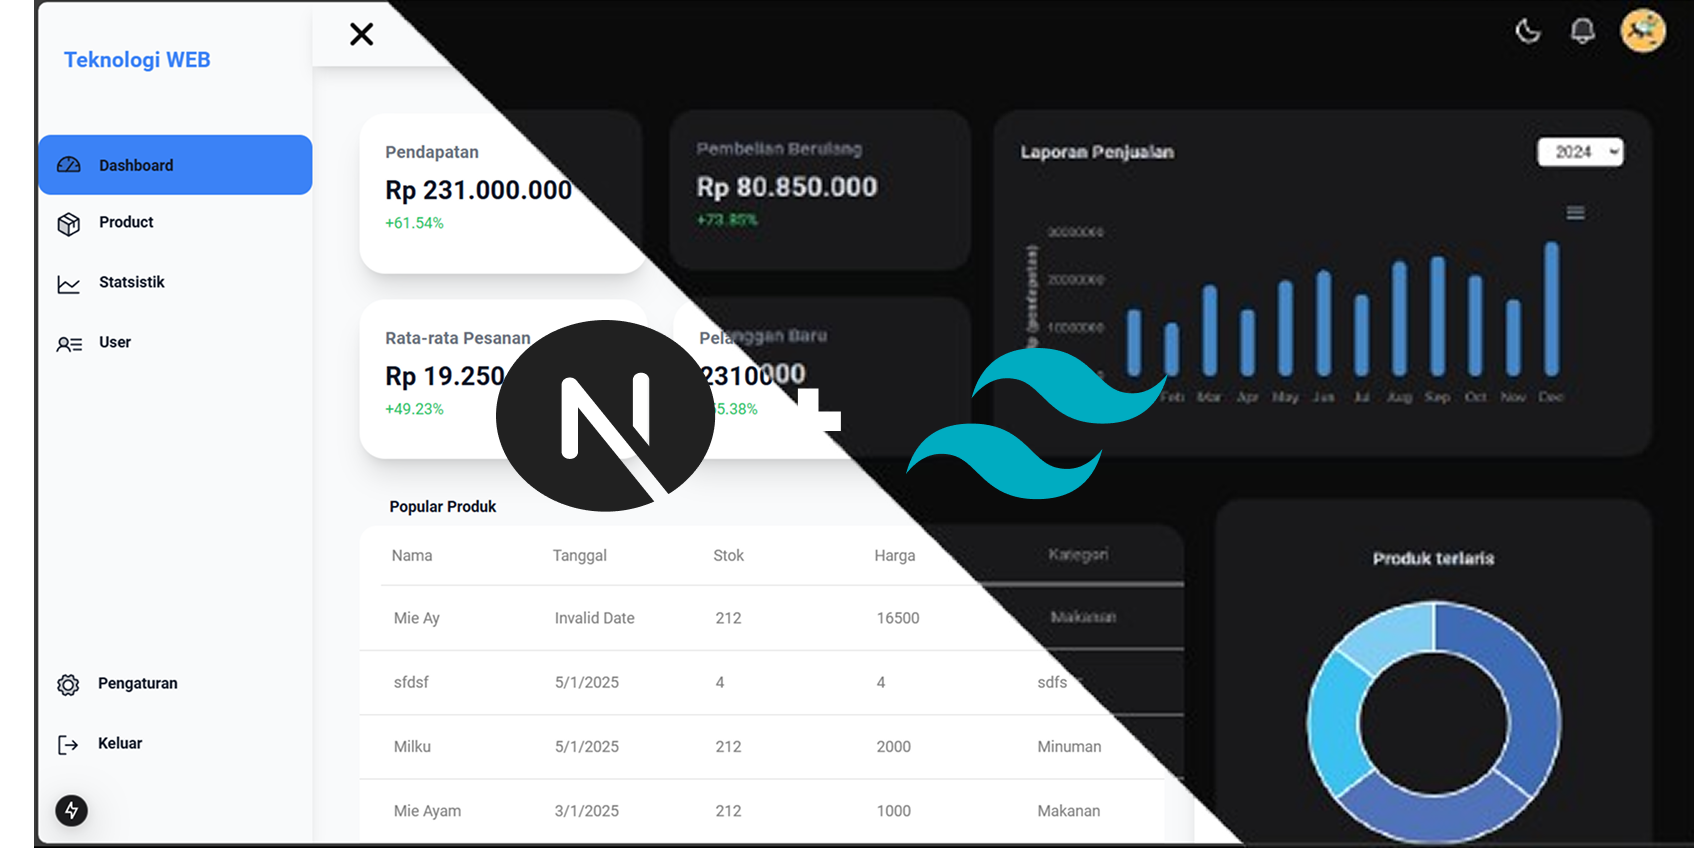
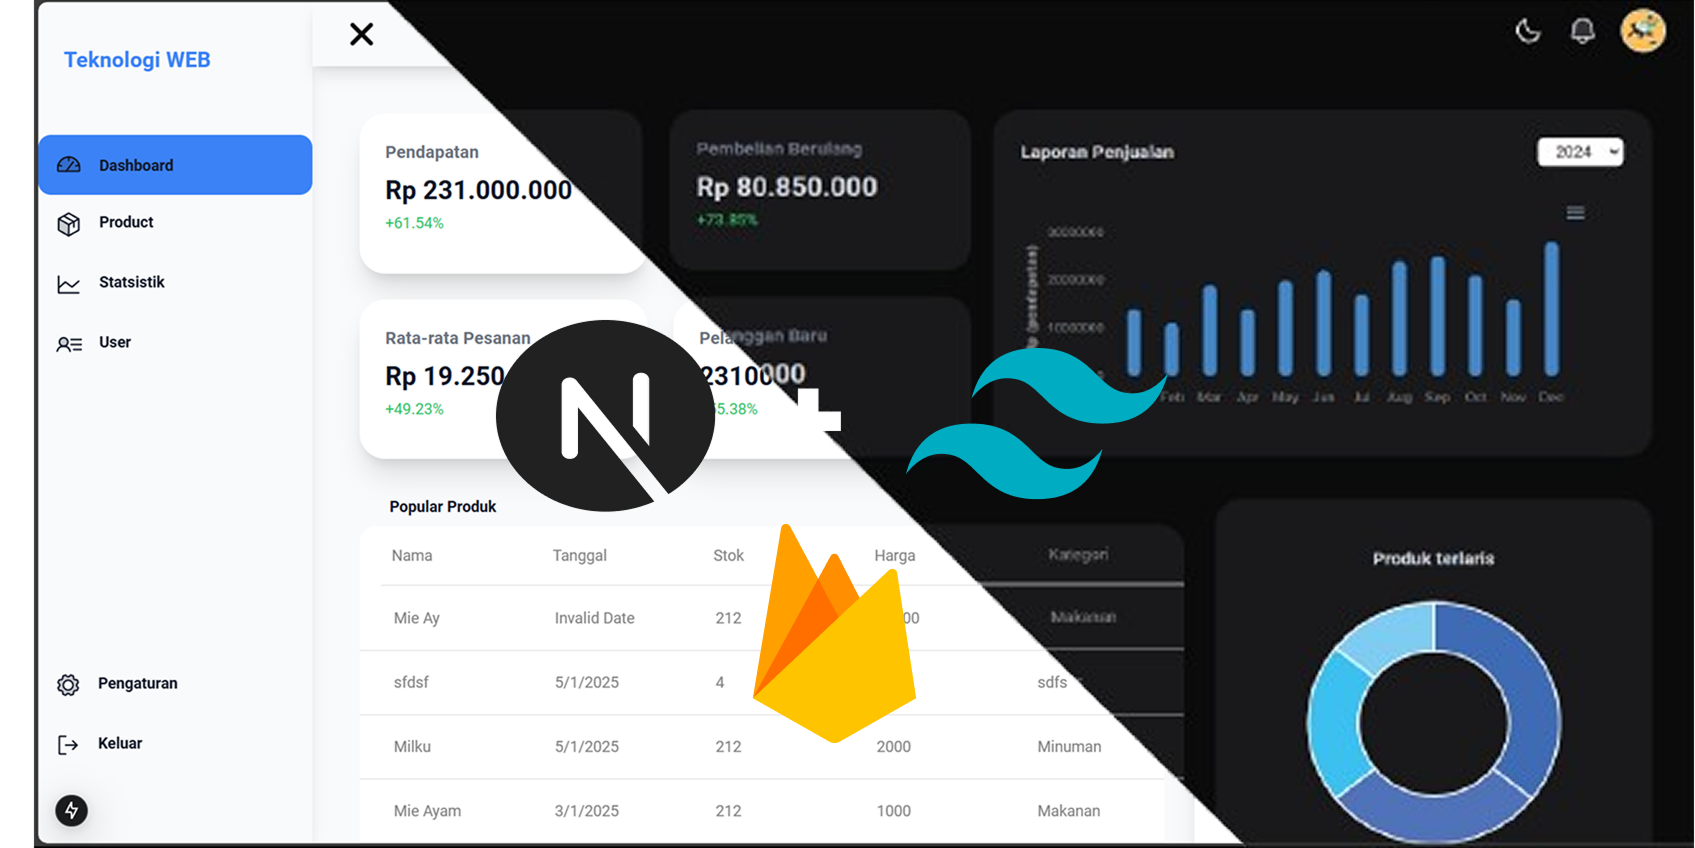
Disable Blogs

Changed region(s): [[0.4295, 0.6132, 0.5522, 0.8892]]

diff --git a/src/app/Home/page.jsx b/src/app/Home/page.jsx
@@ -245,10 +245,10 @@ export default function Home() {
             </div>
 
             {/* Blogs */}
-            <div className="h-full w-full bg-Bg1 flex flex-col justify-center items-center px-4 md:px-16 mb-16">
+            {/* <div className="h-full w-full bg-Bg1 flex flex-col justify-center items-center px-4 md:px-16 mb-16"> */}
                 {/* Header Section */}
-                <div className="flex flex-col gap-7 py-24">
-                    <div className="flex flex-col items-center justify-center gap-3  ">
+                {/* <div className="flex flex-col gap-7 py-24"> */}
+                    {/* <div className="flex flex-col items-center justify-center gap-3  ">
                         <img src="/asset/mouse.svg" alt="mouse" className="md:w-7 w-5" />
                         <img src="/asset/Line.svg" alt="line" className="md:w-3 w-2" />
                     </div>
@@ -258,22 +258,22 @@ export default function Home() {
                             <h1 className="text-Brand1 md:text-5xl text-3xl font-primary tracking-wider">Blogs</h1>
                         </div>
                         <h1 className="md:text-sm text-xs font-mono ">some of my activities are on the blog page</h1>
-                    </div>
-                </div>
+                    </div> */}
+                {/* </div> */}
 
 
                 {/* Blog Card Section */}
-                <div className="flex flex-col justify-center items-center px-4 md:px-16 -mt-4 md:-mt-10 gap-8">
-                    <div className="flex flex-col lg:flex-row w-full border-t-2 border-b-2 gap-8 md:gap-20 py-10 px-4 md:px-16 items-center justify-between">
+                {/* <div className="flex flex-col justify-center items-center px-4 md:px-16 -mt-4 md:-mt-10 gap-8"> */}
+                    {/* <div className="flex flex-col lg:flex-row w-full border-t-2 border-b-2 gap-8 md:gap-20 py-10 px-4 md:px-16 items-center justify-between"> */}
                         {/* Image */}
-                        <img
+                        {/* <img
                             src="/Blog/Demis.JPG"
                             alt="profile"
                             className="w-full md:w-auto max-w-full h-auto object-contain max-h-52"
-                        />
+                        /> */}
                         {/* Content */}
-                        <div className="flex flex-col gap-5 w-full items-start">
-                            <h1 className="text-Brand1 font-primary text-xl md:text-2xl font-normal">
+                        {/* <div className="flex flex-col gap-5 w-full items-start"> */}
+                            {/* <h1 className="text-Brand1 font-primary text-xl md:text-2xl font-normal">
                                 Demisioner HMPS-SI UAD Periode 2024
                             </h1>
                             <p className="text-sm tracking-wide font-light font-primary">
@@ -285,8 +285,8 @@ export default function Home() {
                                 onClick={() => router.push("/Blog/Demisioner")}
                             >
                                 Read More &gt;&gt;
-                            </button>
-                            <div className="flex flex-wrap gap-4 text-sm items-center tracking-wide">
+                            </button> */}
+                            {/* <div className="flex flex-wrap gap-4 text-sm items-center tracking-wide">
                                 <label className="py-1 px-3 rounded-2xl bg-Grey">Activity</label>
                                 <h1 className="font-light">
                                     <span className="font-bold mx-1">Text</span>Yudha
@@ -297,9 +297,9 @@ export default function Home() {
                                 <h1 className="font-light">
                                     <span className="font-bold mx-1">Read</span>1 Min
                                 </h1>
-                            </div>
-                        </div>
-                    </div>
+                            </div> */}
+                        {/* </div> */}
+                    {/* </div> */}
 
                     {/* <button
                         className="text-black hover:text-White p-3 rounded-3xl px-6 bg-Brand1"
@@ -307,12 +307,12 @@ export default function Home() {
                     >
                         View More
                     </button> */}
-                </div>
-            </div>
+                {/* </div> */}
+            {/* </div> */}
 
 
             {/* Contact */}
-            <div className="h-full w-full bg-Bg2 flex flex-col justify-center items-center px-4 md:px-16 mb-16">
+            <div className="h-full w-full bg-Bg1 flex flex-col justify-center items-center px-4 md:px-16 mb-16">
                 {/* Header Section */}
                 <div className="flex flex-col gap-7 py-12 md:py-24">
                     <div className="flex flex-col items-center justify-center gap-3">

diff --git a/src/components/projek.jsx b/src/components/projek.jsx
@@ -7,29 +7,29 @@ import { Pagination, Navigation, Autoplay } from "swiper/modules";
 
 const certificates = [
   {
-    title: "Proyek akhir matakuliah",
-    description: "Dapat top 3 pada proyek akhir matakuliah",
+    title: "Last Course Project",
+    description: "get top 3 in last project teknology web in university",
     date: "2025",
     image: "/project/DashboardAdmin.png",
     link: "https://administrator-orcin.vercel.app/",
   },
   {
-    title: "Landing Page di Praktikum Teknologi web",
-    description: "Proyek membuat landing page menggunakan HTML, CSS, dan JS dan framewor tailwind.css",
+    title: "Landing Page in Praktikum Teknologi web",
+    description: "Building project page with HTML and Tailwindcss framework",
     date: "2024",
     image: "/project/landing.png",
     link: "https://yudha556.github.io/Landing-Page-praktikum/"
   },
   {
     title: "3D Blender",
-    description: "Proyek membuat cinematic menggunakan software 3D engine Blender",
+    description: "Building 3D model with blender",
     date: "2025",
     image: "/project/3D-Blender.png",
     link: "./project/Blender.mp4",
   },
   {
     title: "First Create UI/UX my version",
-    description: "Proyek membuat UI/UX versi saya",
+    description: "Build UI/UX with Figma",
     date: "2024",
     image: "/project/LandingPage.png",
     link: "https://www.figma.com/design/NCUaGrdr2tKPQ8KfYtVJih/Landing-Page-Blue-Sky?node-id=0-1&t=KLxqJfHFcLsaxB9I-1"

diff --git a/src/components/sertifikat.jsx b/src/components/sertifikat.jsx
@@ -8,20 +8,20 @@ import "@/app/globals.css";
 
 const certificates = [
   {
-    title: "Juara 3 Game Development",
-    description: "Fokus di bagian desain 3D untuk game nasional.",
+    title: "3rd place  in game development competition",
+    description: "my 3d design part in the development of this project",
     date: "2024",
     image: "/sertifikat/game-dev.png",
   },
   {
     title: "Cyber Scurity Seminar",
-    description: "Mengikuti seminar nasional yang di selenggarakan oleh JH (Jadi Hackers)",
+    description: "following the national seminar organized by jh",
     date: "2024",
     image: "/sertifikat/JH.png",
   },
   {
     title: "UI/UX Seminar",
-    description: "Mengikuti seminar nasional yang di selenggarakan oleh Himasi UAD",
+    description: "Following the national seminar organized by jh",
     date: "2023",
     image: "/sertifikat/semnas-UI-UX.png",
   },

diff --git a/src/components/footer.jsx b/src/components/footer.jsx
@@ -29,7 +29,7 @@ export default function footer() {
                 </button>
             </div>
             <div className="text-xs font-thin tracking-wide">
-                <h1>Slicing Design By JohhanLeon</h1>
+                <h1 className="text-white ">Create With <span className="font-bold ml-2 underline">Next.js</span></h1>
             </div>
         </div>
     )

diff --git a/src/components/logoDisplay.jsx b/src/components/logoDisplay.jsx
@@ -22,6 +22,7 @@ const CategoryDisplay = () => {
       { src: '/skill/nextjs.svg', alt: 'Next.js' },
       { src: '/skill/Github.svg', alt: 'Github' },
       { src: '/skill/python.svg', alt: 'Python' },
+      { src: '/skill/firebase.svg', alt: 'Firebase' },
     ],
     uiux: [
       { src: '/skill/figma.svg', alt: 'Figma' },
